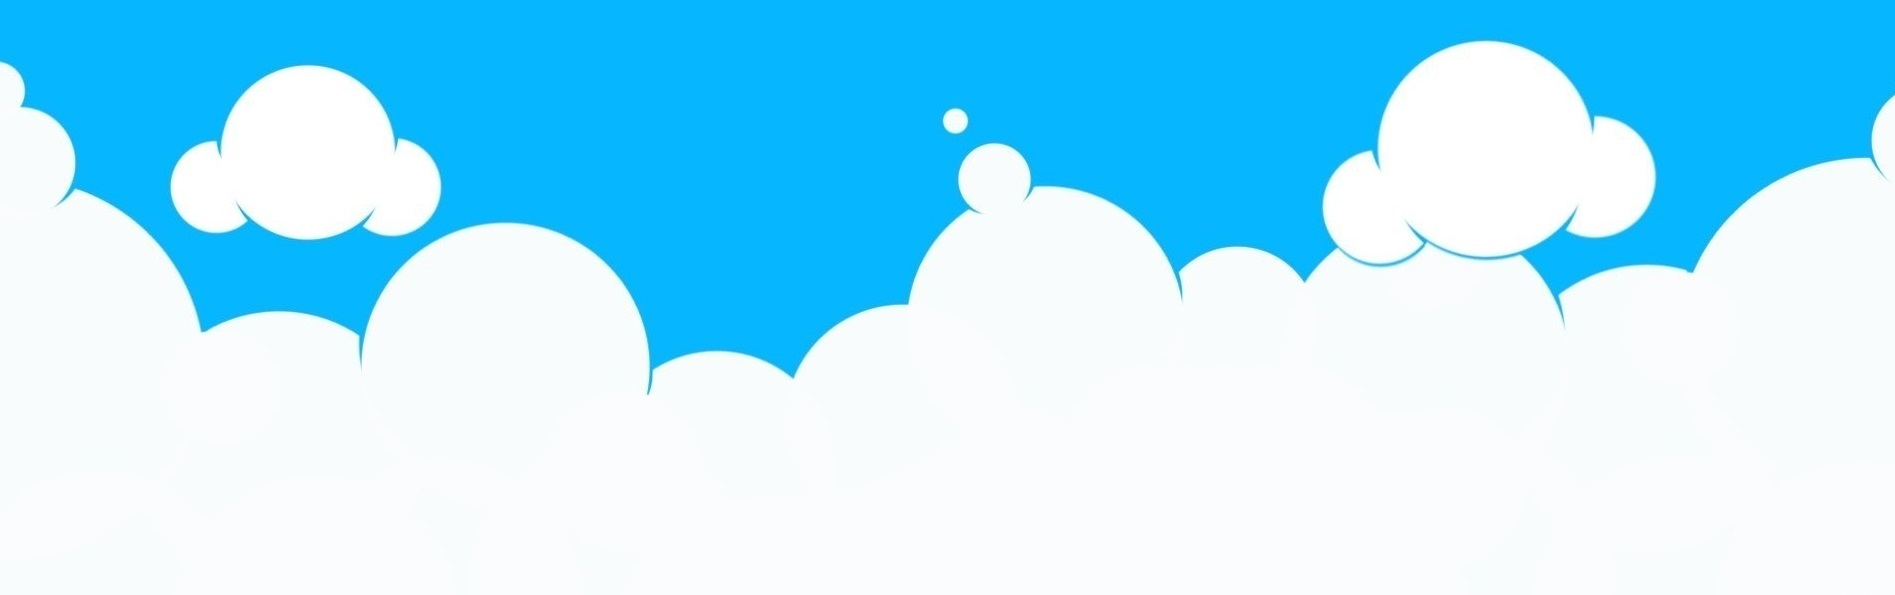
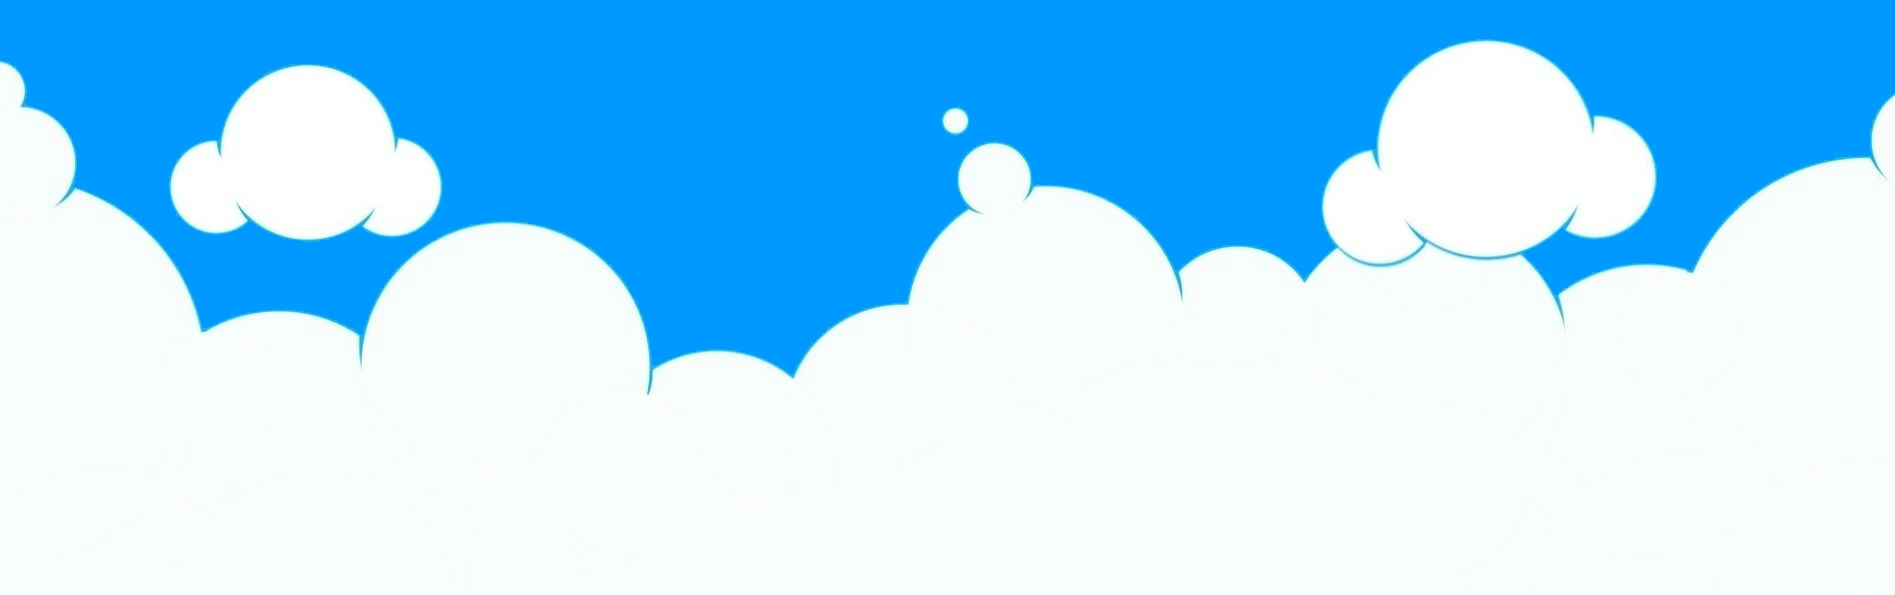
add getstartbtn_blue css

diff --git a/src/app/home/home.component.html b/src/app/home/home.component.html
@@ -2,7 +2,7 @@
   <div id="headerdiv">
     <h1 class="j1">Get Into Your Dream I.T Job</h1>
     <h2 class="m2 mid1Content">Access the brightest minds with one-on-one online education</h2>
-    <button routerLink="/application" type="button" class="btn btn-primary">Get Started</button>
+    <button class="getstartbtn_blue"  type="button" name="button" routerLink="/application">Get Started</button>
   </div>
 </header>
 <!----------------------------------------------------------------------------------------------------------------------------->
@@ -23,7 +23,7 @@
   </div>
 </section>
 <!------------------------------------------------------------------------------------------------------------------------>
-<section id="section3" style="background-color:#96e5fd">
+<section id="section3" style="background-color:#0099ff">
   <div class="container" id="section3container">
       <h2  class="l2">Hear how others used Learnspace</h2>
       <div class="row ">
@@ -174,7 +174,7 @@
             <h2  class="l2" style="color:black;padding-bottom: 60px;">Get into your dream university. Book your consultation today.</h2>
         </div>
         <div class="col-md-6" style="vertical-align: middle; ">
-          <button type="button" id="botbtn" routerLink="/application" class="btn btn-primary">Get Started</button>
+          <button type="button"  routerLink="/application" style="background-color:rgb(28, 121, 158)" class="getstartbtn_blue">Get Started</button>
         </div>
       </div>
     </div>

diff --git a/src/app/programs/programsmain/programsmain.component.html b/src/app/programs/programsmain/programsmain.component.html
@@ -4,11 +4,11 @@
       <h2 class="m2 mid1Content">Access the brightest minds with one-on-one online education</h2>
       <br>
     <div class="section5button" *ngIf="isBrowser==true">
-        <button type="button" class="btn btn-primary" style="width:150px;" routerLink="/application">Get Start</button>
+        <button type="button" class="getstartbtn_blue"  routerLink="/application">Get Start</button>
     </div>
           
     <div class="section5button" *ngIf="isBrowser==false">
-        <button type="button" class="btn btn-primary" style="width:150px;" href="www.gradspace.org/application">Get Start</button>
+        <button type="button" class="getstartbtn_blue" href="www.gradspace.org/application">Get Start</button>
     </div>
     </div>
   </header>
@@ -119,10 +119,10 @@
   </div>
     <br><br>
     <div class="section5button" *ngIf="isBrowser==true">
-        <button id="getstartbtn" class="btn btn-primary" routerLink="/application">Get Started</button>
+        <button  class="getstartbtn_blue" routerLink="/application">Get Started</button>
     </div>
     <div class="section5button" *ngIf="isBrowser==false">
-        <button id="getstartbtn" class="btn btn-primary" href="www.gradspace.org/application">Get Started</button>
+        <button  class="getstartbtn_blue" href="www.gradspace.org/application">Get Started</button>
     </div>
 </section>
 <br><br>

diff --git a/src/app/programs/program-tester/program-tester.component.html b/src/app/programs/program-tester/program-tester.component.html
@@ -255,11 +255,11 @@
     </div>
   </div>
   <div class="section5button" *ngIf="isBrowser==true">
-      <button class="btn m1" id="applyButton" type="button" name="button" routerLink="/application">Apply Now</button>
+      <button class="getstartbtn_blue"  type="button" name="button" routerLink="/application">Apply Now</button>
     </div>
     
     <div class="section5button" *ngIf="isBrowser==false">
-      <button class="btn m1" id="applyButton" type="button" name="button" href="www.gradspace.org/application">Apply Now</button>
+      <button class="getstartbtn_blue"  type="button" name="button" href="www.gradspace.org/application">Apply Now</button>
     </div>
     
 </div>

diff --git a/src/app/programs/program-developer/program-developer.component.html b/src/app/programs/program-developer/program-developer.component.html
@@ -256,11 +256,11 @@
   </div>
   
   <div class="section5button" *ngIf="isBrowser==true">
-    <button class="btn m1" id="applyButton" type="button" name="button" routerLink="/application">Apply Now</button>
+    <button class="getstartbtn_blue"  type="button" name="button" routerLink="/application">Apply Now</button>
   </div>
   
   <div class="section5button" *ngIf="isBrowser==false">
-    <button class="btn m1" id="applyButton" type="button" name="button" href="www.gradspace.org/application">Apply Now</button>
+    <button class="getstartbtn_blue"  type="button" name="button" href="www.gradspace.org/application">Apply Now</button>
   </div>
 
 </div>

diff --git a/src/app/home/home.component.css b/src/app/home/home.component.css
@@ -21,9 +21,6 @@
         background-size: cover;
         text-align:center;
     }
-    .btn.btn-primary{
-        width: 200px;
-    }
     
 /* section2------------------------------------------------------------------------------------- */
 #sectionimage{
@@ -111,13 +108,6 @@ div.col-12
 #section6{
     background-image: url("../../assets/header_images/cloud-blue.jpg");
     background-size: cover;
-}
-#botbtn
-{
-    margin-top: 60px;
-    margin-bottom: 70px;
-    size: 100px;
-    background-color: #0099ff;
 }
 .blogimages
 {

diff --git a/src/styles.css b/src/styles.css
@@ -175,8 +175,19 @@
     color:white;
     border-color:white;
     border-width: 1px;
+    border-radius: 5px;
 }
-
+.getstartbtn_blue{
+    font-size: 20px;
+    background-color: #0099FF;
+    margin-bottom: 13px;
+    padding: 8px 23px 8px 23px;
+    text-decoration: bold;
+    color:white;
+    border-color:transparent;
+    border-width: 1px;
+    border-radius: 5px;
+}
 .btn{
     cursor:pointer;
 }

diff --git a/src/app/programs/program-developer/program-developer.component.css b/src/app/programs/program-developer/program-developer.component.css
@@ -227,20 +227,7 @@ li.nav-item{
   margin-bottom: 0.5rem;
 }
 
-#applyButton{
-  background-color: #0099ff;
-  color: white;
-  border: none;
-  padding-top: 10px;
-  padding-bottom: 10px;
-  padding-left: 20px;
-  padding-right: 20px;
-  border-radius: 0;
-  outline:none;
-}
-#applyButton:hover{
-  background-color: #0099ff;
-}
+
 .course-info {
     text-align: justify;
 }

diff --git a/src/app/programs/program-tester/program-tester.component.css b/src/app/programs/program-tester/program-tester.component.css
@@ -228,20 +228,6 @@ li.nav-item{
   margin-bottom: 0.5rem;
 }
 
-#applyButton{
-  background-color:  #0099ff;
-  color: white;
-  border: none;
-  padding-top: 10px;
-  padding-bottom: 10px;
-  padding-left: 20px;
-  padding-right: 20px;
-  border-radius: 0;
-  outline:none;
-}
-#applyButton:hover{
-  background-color:  #0099ff;
-}
 .course-info {
     text-align: justify;
 }

diff --git a/src/app/programs/programsmain/programsmain.component.css b/src/app/programs/programsmain/programsmain.component.css
@@ -74,12 +74,7 @@ div.col-md-4.program
     border-radius: 8px;
     text-align: center;
 }
-#getstartbtn
-{
-    width: 240px;
-    height: 40px;
-    font-size: 20px;
-}
+
 @media(max-width:576px) {
     .custom-control.custom-checkbox
     {
